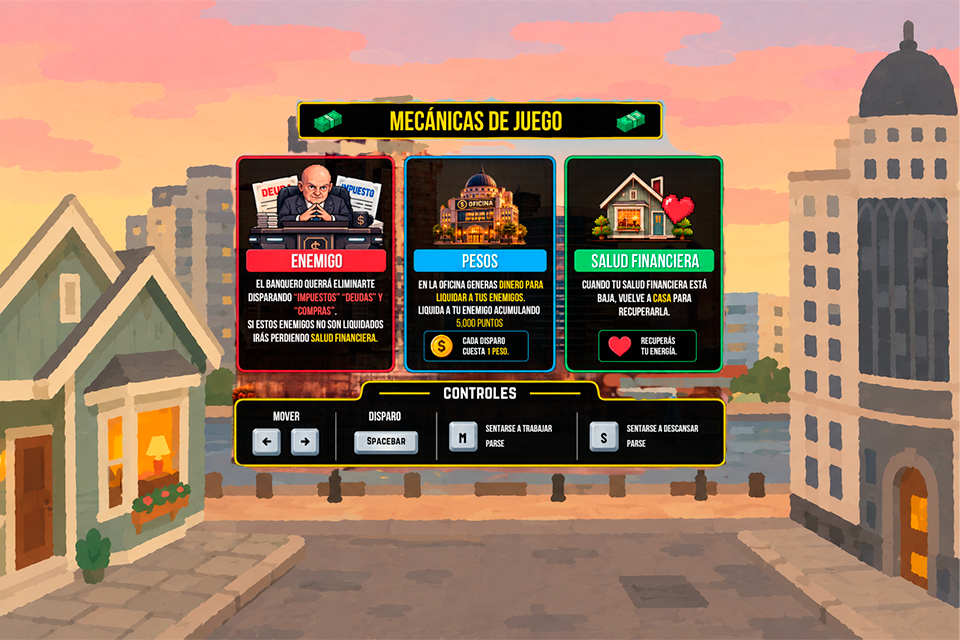
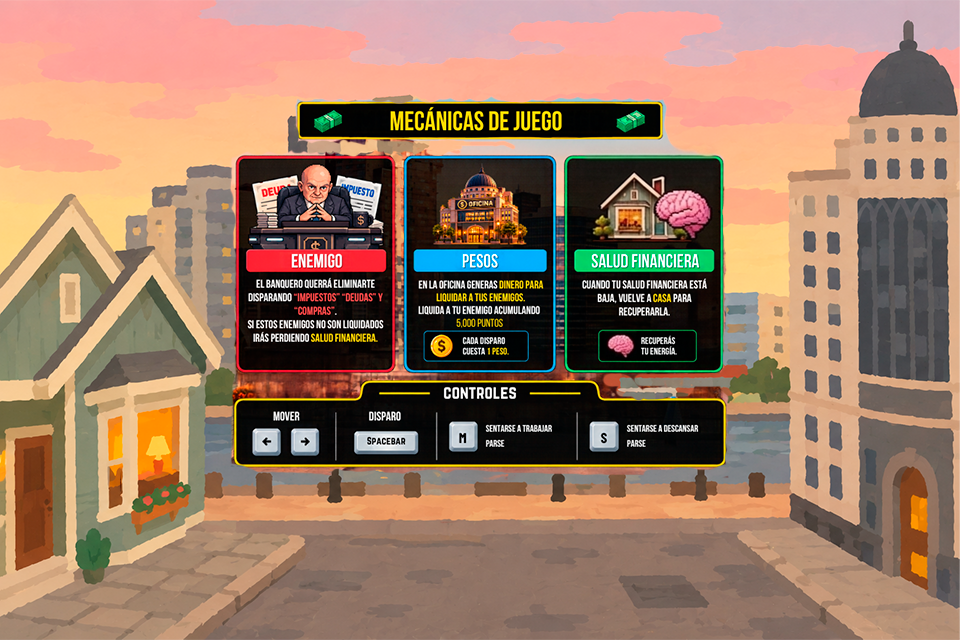
Modifico sketch.js, disparos.js reemplazo imagen de interfaz

Changed region(s): [[0.5938, 0.2188, 0.75, 0.375], [0.625, 0.5, 0.6562, 0.5625]]

diff --git a/sketch.js b/sketch.js
@@ -198,8 +198,6 @@ let sueloY = 460;
 
 let estado = 1;
 
-let ultimoCambioEstado = 0;
-
 let escenaActual = 3;
 
 // ----------------------------------------------------------
@@ -661,6 +659,8 @@ function iniciarJuego() {
   // ----------------------------------------------------------
 
   tiempoSobrevivido = 0;
+
+  tiempoLimite = 180;
 
   tiempoInicio =
     millis();
@@ -1691,6 +1691,18 @@ function actualizarCiudad() {
 
       // Reacción durante 30 cuadros
       banqueroGolpeado = 30;
+
+      // Prolonga el tiempo límite en 10 segundos
+      tiempoLimite += 10;
+
+      // Feedback visual de tiempo extra
+      crearParticula(
+        disparos[k].x,
+        disparos[k].y,
+        "+10s",
+        0,
+        -1
+      );
     }
 
 
@@ -3005,8 +3017,6 @@ function mousePressed() {
 
       estado = 2;
 
-      ultimoCambioEstado = frameCount;
-
       return;
     }
   }
@@ -3020,9 +3030,7 @@ function mousePressed() {
     estado === 2
   ) {
 
-    // Evitamos salto involuntario por click solapado desde créditos
     if (
-      frameCount - ultimoCambioEstado > 20 &&
       interfaz.mouseSobreBoton()
     ) {
 

diff --git a/disparos.js b/disparos.js
@@ -116,4 +116,39 @@ class Disparo {
 
     return false;
   }
+
+
+  // ========================================================
+  // IMPACTO CONTRA BANQUERO
+  // ========================================================
+
+  verificarImpactoBanquero() {
+    if (!this.activo) {
+      return false;
+    }
+
+    // El banquero se dibuja con imageMode(CORNER) en (banqueroX, 50) con tamaño 120x120
+    let tocoX = this.x > banqueroX && this.x < banqueroX + 120;
+    let tocoY = this.y > 50 && this.y < 50 + 120;
+
+    if (tocoX && tocoY) {
+      // Desactivamos el signo "$" para que desaparezca al chocar
+      this.activo = false;
+
+      // Reacción física: invierte dirección y pega un sacudón hacia el costado
+      banqueroVelocidad *= -1;
+      banqueroX += banqueroVelocidad * 10;
+      banqueroX = constrain(banqueroX, banqueroLimiteIzquierdo, banqueroLimiteDerecho);
+
+      // Reacción visual: activa el temblor y el tinte rojo por 15 cuadros
+      banqueroGolpeado = 15;
+
+      // Prolonga el tiempo límite en 10 segundos
+      tiempoLimite += 10;
+
+      return true;
+    }
+
+    return false;
+  }
 }
